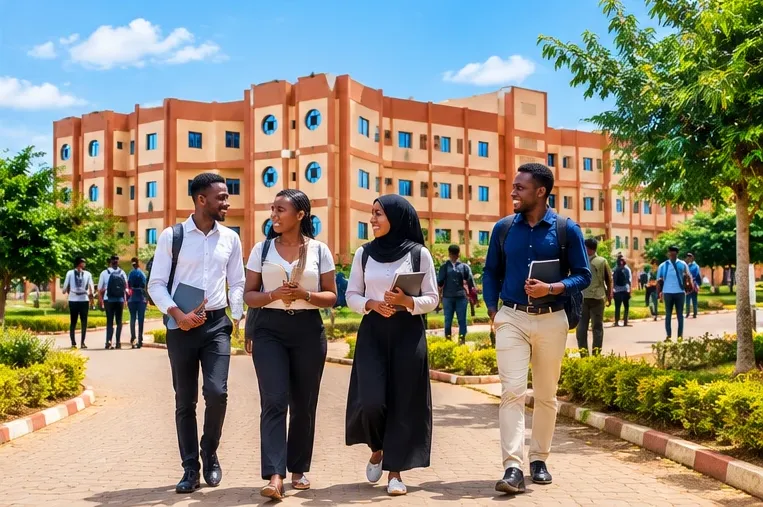
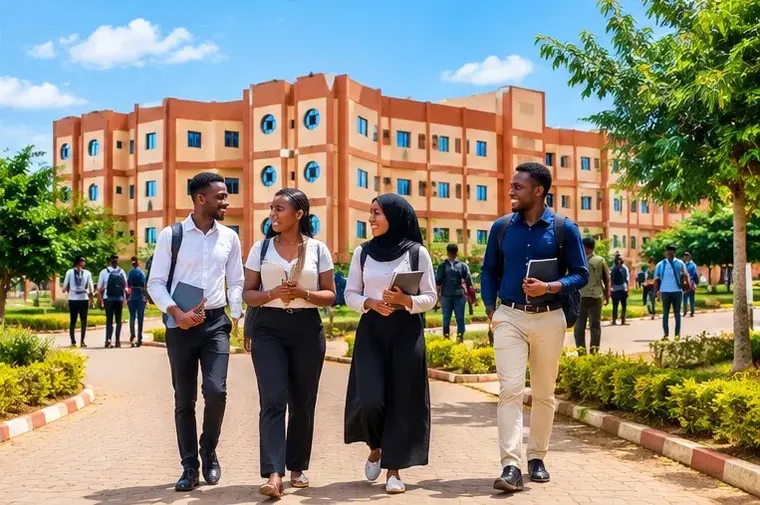
Nettoyage du Hero, harmonisation des couleurs, décor interactif, perf
- Hero : retrait de la vague décorative et de la liste de badges
  (redondantes, chevauchaient visuellement le compte à rebours) — le Hero
  se termine simplement sur les CTA
- Harmonisation de la palette : icônes "Nos valeurs" chacune d'une
  couleur différente (accent/teal/primaire/rouge), badges de faculté
  "Nos formations" colorés par faculté (SJPA = teal, SEG = rouge) au lieu
  d'accent partout
- Décor de section : ajout d'un léger suivi du curseur sur le conteneur
  (desktop uniquement, indépendant de GSAP), en plus du parallaxe au
  scroll existant sur les formes — sans conflit entre les deux effets
- Performance : recompression des photos les plus lourdes (hero, pourquoi,
  galerie — 15 à 22% plus légères sans perte visible), et conversion des
  fonds photo des cartes Formations en <img loading="lazy"> réels au lieu
  de background-image CSS (chargées immédiatement auparavant)
- Version du plugin up2a-core : 0.6.0 -> 0.7.0 (cache-busting)

Claude-Session: https://claude.ai/code/session_01L21ae3ERwwuRUX6hzhKCNv

Changed region(s): [[0.8171, 0.0891, 0.9079, 0.2673], [0.7868, 0.2376, 0.8171, 0.2673], [0.7868, 0.1485, 0.8171, 0.1782]]

diff --git a/wordpress/plugins/up2a-core/assets/css/up2a-front-page.css b/wordpress/plugins/up2a-core/assets/css/up2a-front-page.css
@@ -69,22 +69,6 @@
   );
 }
 
-.up2a-hero__wave {
-  position: absolute;
-  left: 0;
-  bottom: 0;
-  width: min(320px, 40vw);
-  height: auto;
-  line-height: 0;
-  pointer-events: none;
-}
-
-.up2a-hero__wave svg {
-  width: 100%;
-  height: auto;
-  display: block;
-}
-
 .up2a-hero__content {
   position: relative;
   max-width: 620px;
@@ -167,28 +151,6 @@
   background: #ffffff;
   color: var(--up2a-color-primary-dark);
   transform: translateY(-1px);
-}
-
-.up2a-hero__badges {
-  list-style: none;
-  margin: 0;
-  padding: 0;
-  display: flex;
-  flex-wrap: wrap;
-  gap: 12px 28px;
-}
-
-.up2a-hero__badges li {
-  display: inline-flex;
-  align-items: center;
-  gap: 8px;
-  font-size: 0.875rem;
-  color: rgba(255, 255, 255, 0.92);
-}
-
-.up2a-hero__badges svg {
-  color: var(--up2a-color-accent);
-  flex-shrink: 0;
 }
 
 .up2a-hero__dots {
@@ -520,6 +482,19 @@
   margin: 0 auto 16px;
 }
 
+.up2a-values__icon--accent {
+  background: var(--up2a-color-accent);
+  color: var(--up2a-color-ink);
+}
+
+.up2a-values__icon--teal {
+  background: var(--up2a-color-teal);
+}
+
+.up2a-values__icon--red {
+  background: var(--up2a-color-red);
+}
+
 .up2a-values__card h3 {
   font-family: var(--up2a-font-heading);
   color: var(--up2a-color-primary);
@@ -564,16 +539,33 @@
   overflow: hidden;
   padding: 0;
   cursor: pointer;
-  background-size: cover;
-  background-position: center;
   box-shadow: var(--up2a-shadow-md);
   text-align: left;
+}
+
+.up2a-formations__card-media {
+  position: absolute;
+  inset: 0;
+  z-index: 0;
+}
+
+.up2a-formations__card-media img {
+  width: 100%;
+  height: 100%;
+  object-fit: cover;
+  display: block;
+  transition: transform var(--up2a-motion-base) ease;
+}
+
+.up2a-formations__card:hover .up2a-formations__card-media img {
+  transform: scale(1.06);
 }
 
 .up2a-formations__card::before {
   content: "";
   position: absolute;
   inset: 0;
+  z-index: 1;
   background: linear-gradient(180deg, rgba(3, 18, 42, 0.15) 0%, rgba(3, 18, 42, 0.15) 45%, rgba(3, 18, 42, 0.92) 100%);
   transition: background var(--up2a-motion-base) ease;
 }
@@ -595,6 +587,16 @@
   letter-spacing: 0.04em;
   padding: 6px 14px;
   border-radius: 999px;
+}
+
+.up2a-formations__badge--sjpa {
+  background: var(--up2a-color-teal);
+  color: #ffffff;
+}
+
+.up2a-formations__badge--seg {
+  background: var(--up2a-color-red);
+  color: #ffffff;
 }
 
 .up2a-formations__hover-link {
@@ -1182,6 +1184,8 @@
   z-index: 0;
   overflow: hidden;
   pointer-events: none;
+  transition: transform 0.3s ease-out;
+  will-change: transform;
 }
 
 .up2a-decor__shape {

diff --git a/wordpress/plugins/up2a-core/assets/js/up2a-front-page.js b/wordpress/plugins/up2a-core/assets/js/up2a-front-page.js
@@ -226,6 +226,57 @@
 })();
 
 /**
+ * Décor de section — suivi léger du curseur (wordpress/plugins/up2a-core/
+ * inc/front-page.php, up2a_core_decor()). Indépendant de GSAP : purement
+ * cosmétique, desktop uniquement (voir CLAUDE.md §7), respecte
+ * prefers-reduced-motion. Déplace le conteneur `.js-decor` en entier (pas
+ * les formes individuelles, animées séparément au scroll par GSAP plus
+ * bas) pour ne jamais entrer en conflit avec le parallaxe de scroll.
+ */
+(function () {
+  "use strict";
+
+  var decorSections = document.querySelectorAll(".js-decor");
+  if (!decorSections.length) {
+    return;
+  }
+
+  var prefersReducedMotion =
+    window.matchMedia && window.matchMedia("(prefers-reduced-motion: reduce)").matches;
+  var isDesktop = window.matchMedia && window.matchMedia("(min-width: 960px)").matches;
+
+  if (prefersReducedMotion || !isDesktop) {
+    return;
+  }
+
+  decorSections.forEach(function (decor) {
+    var parent = decor.parentElement;
+    if (!parent) {
+      return;
+    }
+
+    var raf = null;
+
+    parent.addEventListener("mousemove", function (event) {
+      if (raf) {
+        return;
+      }
+      raf = requestAnimationFrame(function () {
+        var rect = parent.getBoundingClientRect();
+        var x = (event.clientX - rect.left) / rect.width - 0.5;
+        var y = (event.clientY - rect.top) / rect.height - 0.5;
+        decor.style.transform = "translate(" + (x * 24).toFixed(1) + "px, " + (y * 24).toFixed(1) + "px)";
+        raf = null;
+      });
+    });
+
+    parent.addEventListener("mouseleave", function () {
+      decor.style.transform = "";
+    });
+  });
+})();
+
+/**
  * Animations du template "Accueil UP-2A (onepage)".
  * S'appuie sur window.UP2A (voir up2a-core.js) : ne fait rien si GSAP n'a
  * pas pu se charger (ex. CDN indisponible) — le contenu reste visible et

diff --git a/wordpress/plugins/up2a-core/inc/front-page.php b/wordpress/plugins/up2a-core/inc/front-page.php
@@ -259,9 +259,6 @@ function up2a_core_render_hero(): void {
 		<?php endif; ?>
 
 		<div class="up2a-hero__scrim" aria-hidden="true"></div>
-		<div class="up2a-hero__wave" aria-hidden="true">
-			<svg viewBox="0 0 220 100" preserveAspectRatio="none"><path d="M0,100 L0,55 C35,20 70,0 110,15 C150,30 175,10 220,0 L220,100 Z" fill="var(--up2a-color-accent)" fill-opacity="0.9"/><path d="M0,100 L0,75 C45,55 85,45 130,60 C165,72 195,55 220,40 L220,100 Z" fill="var(--up2a-color-primary-dark)" fill-opacity="0.55"/></svg>
-		</div>
 
 		<div class="up2a-hero__content">
 			<p class="up2a-hero__eyebrow"><span></span> UP-2A</p>
@@ -284,11 +281,6 @@ function up2a_core_render_hero(): void {
 					<?php echo up2a_core_content_icon( 'arrow' ); ?>
 				</a>
 			</div>
-			<ul class="up2a-hero__badges">
-				<li><?php echo up2a_core_content_icon( 'check' ); ?> <?php esc_html_e( 'Préinscription 100% en ligne', 'up2a-core' ); ?></li>
-				<li><?php echo up2a_core_content_icon( 'check' ); ?> <?php esc_html_e( 'Aucun frais de dossier', 'up2a-core' ); ?></li>
-				<li><?php echo up2a_core_content_icon( 'check' ); ?> <?php esc_html_e( '4 licences, Ouagadougou', 'up2a-core' ); ?></li>
-			</ul>
 		</div>
 
 		<?php if ( count( $slides ) > 1 ) : ?>
@@ -404,24 +396,28 @@ function up2a_core_render_pourquoi(): void {
 function up2a_core_render_valeurs(): void {
 	$valeurs = array(
 		array(
-			'icone' => 'star',
-			'titre' => __( 'Excellence', 'up2a-core' ),
-			'texte' => __( 'Une exigence académique constante, portée par un corps enseignant qualifié et des méthodes pédagogiques rigoureuses.', 'up2a-core' ),
+			'icone'   => 'star',
+			'couleur' => 'accent',
+			'titre'   => __( 'Excellence', 'up2a-core' ),
+			'texte'   => __( 'Une exigence académique constante, portée par un corps enseignant qualifié et des méthodes pédagogiques rigoureuses.', 'up2a-core' ),
 		),
 		array(
-			'icone' => 'book',
-			'titre' => __( 'Savoir', 'up2a-core' ),
-			'texte' => __( 'Une formation ancrée dans les savoirs fondamentaux et les compétences pratiques attendues par le monde professionnel.', 'up2a-core' ),
+			'icone'   => 'book',
+			'couleur' => 'teal',
+			'titre'   => __( 'Savoir', 'up2a-core' ),
+			'texte'   => __( 'Une formation ancrée dans les savoirs fondamentaux et les compétences pratiques attendues par le monde professionnel.', 'up2a-core' ),
 		),
 		array(
-			'icone' => 'shield',
-			'titre' => __( 'Intégrité', 'up2a-core' ),
-			'texte' => __( 'Une éducation qui forme des femmes et des hommes responsables, honnêtes et engagés envers leur communauté.', 'up2a-core' ),
+			'icone'   => 'shield',
+			'couleur' => 'primary',
+			'titre'   => __( 'Intégrité', 'up2a-core' ),
+			'texte'   => __( 'Une éducation qui forme des femmes et des hommes responsables, honnêtes et engagés envers leur communauté.', 'up2a-core' ),
 		),
 		array(
-			'icone' => 'globe',
-			'titre' => __( 'Ouverture', 'up2a-core' ),
-			'texte' => __( 'Une université tournée vers l\'Afrique et le monde, accueillante pour tous les profils d\'étudiants.', 'up2a-core' ),
+			'icone'   => 'globe',
+			'couleur' => 'red',
+			'titre'   => __( 'Ouverture', 'up2a-core' ),
+			'texte'   => __( 'Une université tournée vers l\'Afrique et le monde, accueillante pour tous les profils d\'étudiants.', 'up2a-core' ),
 		),
 	);
 	?>
@@ -432,7 +428,7 @@ function up2a_core_render_valeurs(): void {
 			<div class="up2a-values__grid">
 				<?php foreach ( $valeurs as $v ) : ?>
 					<div class="up2a-values__card js-values-card">
-						<div class="up2a-values__icon"><?php echo up2a_core_content_icon( $v['icone'] ); ?></div>
+						<div class="up2a-values__icon up2a-values__icon--<?php echo esc_attr( $v['couleur'] ); ?>"><?php echo up2a_core_content_icon( $v['icone'] ); ?></div>
 						<h3><?php echo esc_html( $v['titre'] ); ?></h3>
 						<p><?php echo esc_html( $v['texte'] ); ?></p>
 					</div>
@@ -540,9 +536,19 @@ function up2a_core_render_formations(): void {
 						type="button"
 						class="up2a-formations__card js-formations-card"
 						data-formation="<?php echo esc_attr( $f['slug'] ); ?>"
-						style="background-image:url('<?php echo esc_url( $f['image']['desktop'] ); ?>')"
 					>
-						<span class="up2a-formations__badge"><?php echo esc_html( $f['faculte'] ); ?></span>
+						<picture class="up2a-formations__card-media">
+							<source srcset="<?php echo esc_url( $f['image']['mobile'] ); ?>" media="(max-width: 640px)">
+							<img
+								src="<?php echo esc_url( $f['image']['desktop'] ); ?>"
+								alt=""
+								loading="lazy"
+								decoding="async"
+								width="600"
+								height="450"
+							>
+						</picture>
+						<span class="up2a-formations__badge up2a-formations__badge--<?php echo esc_attr( strtolower( $f['faculte'] ) ); ?>"><?php echo esc_html( $f['faculte'] ); ?></span>
 						<span class="up2a-formations__hover-link"><?php esc_html_e( 'Voir la formation', 'up2a-core' ); ?> <?php echo up2a_core_content_icon( 'arrow' ); ?></span>
 						<span class="up2a-formations__card-footer">
 							<span class="up2a-formations__card-title"><?php echo esc_html( $f['nom'] ); ?></span>

diff --git a/wordpress/plugins/up2a-core/up2a-core.php b/wordpress/plugins/up2a-core/up2a-core.php
@@ -6,7 +6,7 @@
  *                     pas le contenu éditorial des pages) pour UP-2A. Cible des classes
  *                     CSS `js-*` posées dans Elementor pour l'animation des pages (voir
  *                     docs/04-conventions.md et docs/06-storyboard.md).
- * Version:           0.6.0
+ * Version:           0.7.0
  * Requires PHP:      8.0
  * Text Domain:        up2a-core
  */
@@ -15,7 +15,7 @@ if ( ! defined( 'ABSPATH' ) ) {
 	exit; // Accès direct interdit.
 }
 
-define( 'UP2A_CORE_VERSION', '0.6.0' );
+define( 'UP2A_CORE_VERSION', '0.7.0' );
 define( 'UP2A_CORE_PATH', plugin_dir_path( __FILE__ ) );
 define( 'UP2A_CORE_URL', plugin_dir_url( __FILE__ ) );
 

diff --git a/docs/06-storyboard.md b/docs/06-storyboard.md
@@ -145,16 +145,36 @@
 
 ## Décor de fond par section
 
-- Chaque scène (hors Hero, qui a son propre décor de slider/vague) porte
-  un léger décor purement visuel — un "blob" flouté et un anneau fin, aux
-  couleurs de la palette de marque, positionnés différemment par section
-  pour éviter la monotonie d'un fond plat. Toujours `aria-hidden`, jamais
-  porteur de contenu.
-- Mise en scène : léger parallaxe au scroll (`scrub`) sur desktop
-  uniquement — désactivé sur mobile (`ScrollTrigger.matchMedia()`, voir
-  CLAUDE.md §7) et sous `prefers-reduced-motion: reduce`.
-- Classes : `js-decor` (conteneur par section), `js-decor-shape` (chaque
-  forme).
+- Chaque scène (hors Hero, qui n'a plus de décor propre depuis le retrait
+  de la vague, voir plus bas) porte un léger décor purement visuel — un
+  "blob" flouté et un anneau fin, aux couleurs de la palette de marque,
+  positionnés différemment par section pour éviter la monotonie d'un fond
+  plat. Toujours `aria-hidden`, jamais porteur de contenu.
+- Mise en scène : léger parallaxe au scroll (`scrub`) sur les formes
+  individuelles, **et** un suivi léger du curseur sur le conteneur entier
+  (desktop uniquement dans les deux cas — désactivé sur mobile et sous
+  `prefers-reduced-motion: reduce`, voir CLAUDE.md §7). Les deux effets
+  ciblent des éléments différents (formes vs conteneur) pour ne jamais
+  entrer en conflit.
+- Classes : `js-decor` (conteneur par section, suivi du curseur),
+  `js-decor-shape` (chaque forme, parallaxe au scroll).
+
+## Hero — nettoyage (2026-09-22)
+
+La vague décorative en bas à gauche et la liste de badges ("Préinscription
+100% en ligne", etc.) ont été retirées du Hero à la demande du client
+(redondantes avec le reste de la page, et chevauchaient visuellement le
+nouveau compte à rebours). Le Hero se termine maintenant simplement sur
+les CTA.
+
+## Harmonisation des couleurs
+
+- **Nos valeurs** : chaque icône a sa propre couleur de la palette
+  (Excellence = accent, Savoir = teal, Intégrité = primaire, Ouverture =
+  rouge) plutôt qu'une couleur unique répétée.
+- **Nos formations** : le badge de faculté est coloré par faculté (SJPA =
+  teal, SEG = rouge) au lieu d'accent partout — aide aussi à distinguer
+  visuellement les deux facultés d'un coup d'œil.
 
 ## Règles transverses (toutes scènes)
 
